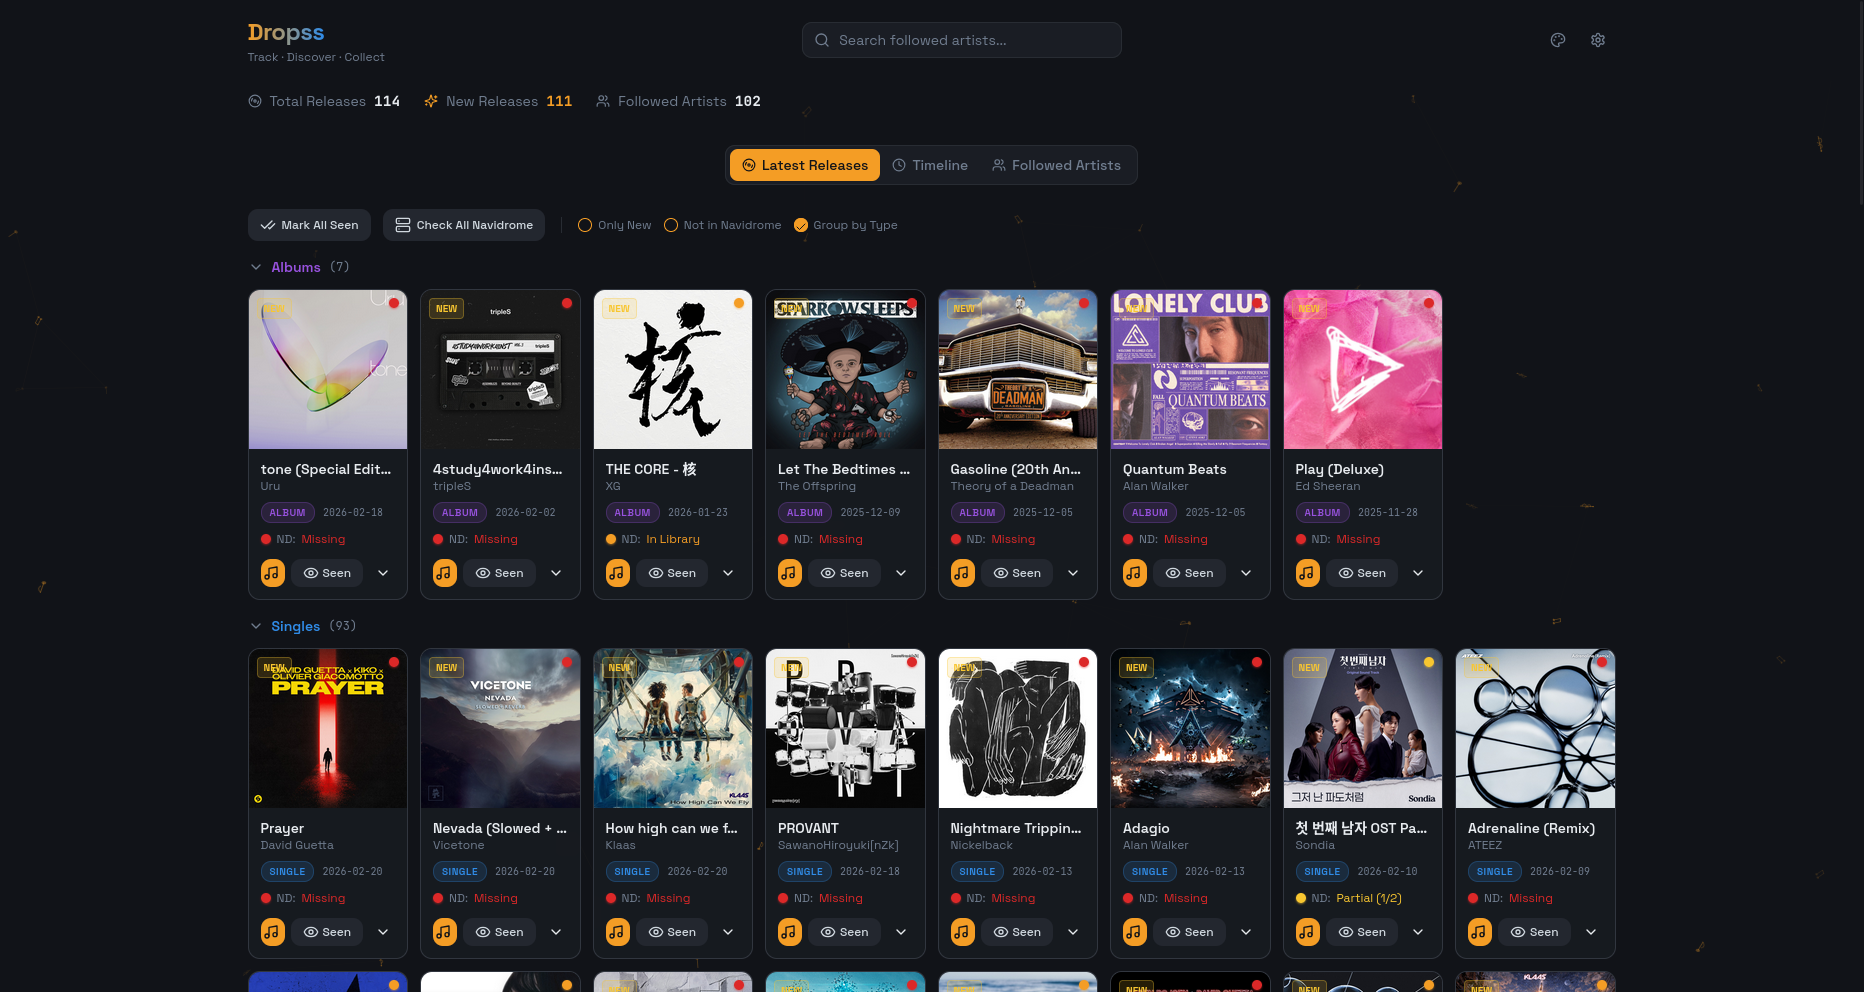
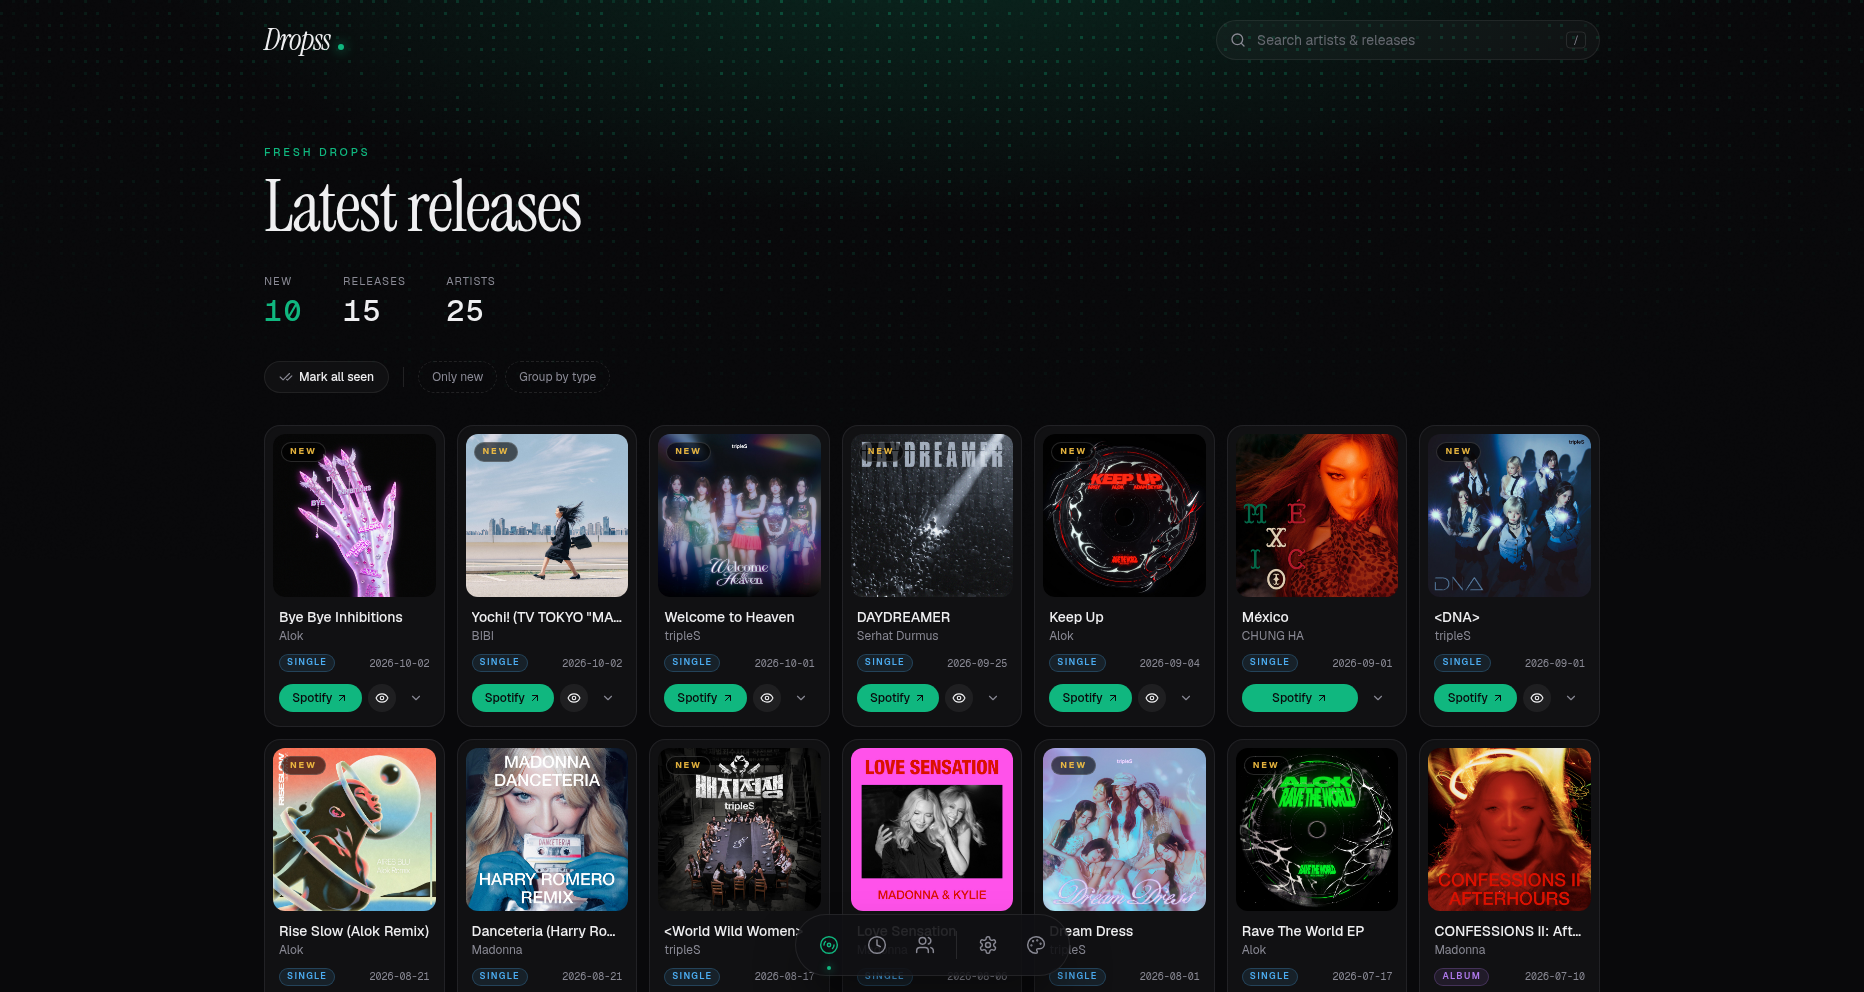
update README screenshots for the new UI
- replace latest releases, timeline and followed artists screenshots with the redesigned UI
- remove outdated artist page and track list screenshots

diff --git a/README.md b/README.md
@@ -4,11 +4,9 @@ Dropss is a self-hosted app to track followed artists, detect new releases, and 
 
 ## Screenshots
 
-| | |
-|---|---|
-| ![Screenshot 1](screenshots/1.png) | ![Screenshot 2](screenshots/2.png) |
-| ![Screenshot 3](screenshots/3.png) | ![Screenshot 4](screenshots/4.png) |
-| ![Screenshot 5](screenshots/5.png) | ![Screenshot 6](screenshots/6.png) |
+| Latest releases | Release timeline | Followed artists |
+|---|---|---|
+| ![Latest releases](screenshots/1.png) | ![Release timeline](screenshots/2.png) | ![Followed artists](screenshots/3.png) |
 
 ## Features
 
